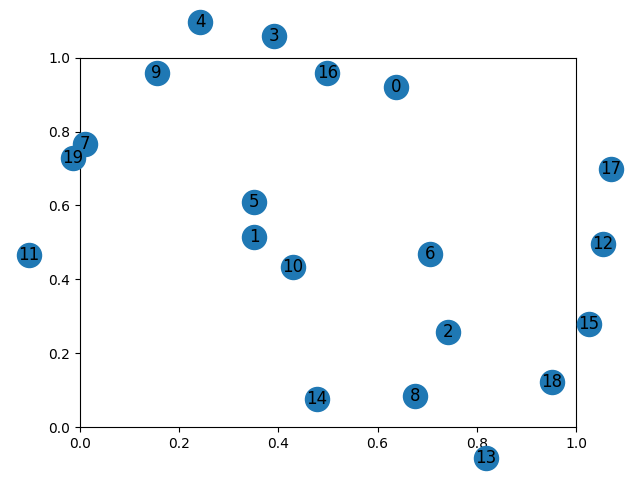
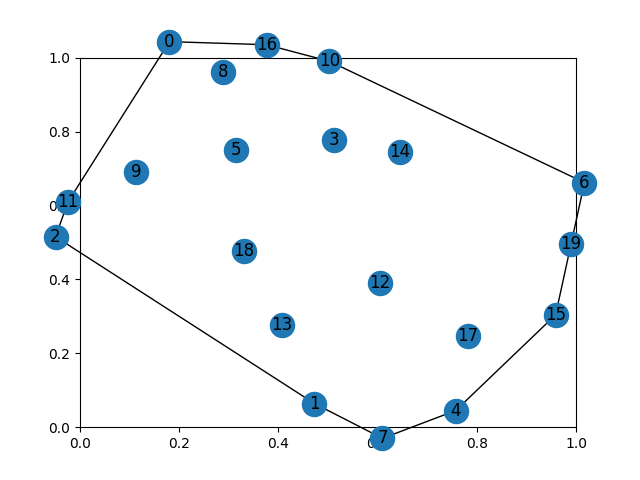
generate actual solution and include in the plot

diff --git a/datasets/cluster_generator.py b/datasets/cluster_generator.py
@@ -1,5 +1,6 @@
 from sklearn import datasets
 from matplotlib import pyplot
+from scipy.spatial import ConvexHull
 
 import networkx as nx
 import numpy as np
@@ -7,13 +8,15 @@ import numpy as np
 def _build_graph(nodes, edges=[]):
     '''
     nodes: coordinates of the nodes asa n np array
-    edges: ordered pairs of nodes in the convex hull
+    edges: ordered list of nodes in the convex hull
     '''
     n = nodes.shape[0]
     G = nx.Graph()
     G.add_nodes_from(list(range(n)))
-    for x, y in edges:
+    for x, y in zip(edges, edges[1:]):
         G.add_edge(x, y)
+    if any(edges):
+        G.add_edge(edges[-1], edges[0])
     return G
 
 def _plot_graph(G, coordinates, output_file):
@@ -26,13 +29,17 @@ def _plot_graph(G, coordinates, output_file):
 
 def _init_blobs(n_nodes, centers, std):
     nodes, _ = datasets.make_blobs(n_samples=n_nodes, centers=centers, cluster_std=std)
+    edges = ConvexHull(nodes)
+
     coordinates = dict(list(enumerate(map(tuple, nodes))))
-    return _build_graph(nodes), coordinates
+    return _build_graph(nodes, edges.vertices), coordinates
 
 def _init_halfmoons(n_nodes, noise):
     nodes, _  = datasets.make_moons(n_samples=n_nodes, noise=noise)
+    edges = ConvexHull(nodes)
+
     coordinates = dict(list(enumerate(map(tuple, nodes))))
-    return _build_graph(nodes), coordinates
+    return _build_graph(nodes, edges.vertices), coordinates
 
 if __name__ == '__main__':
     G, coordinates = _init_blobs(20, [(0,0), (1,1)], 0.2)
